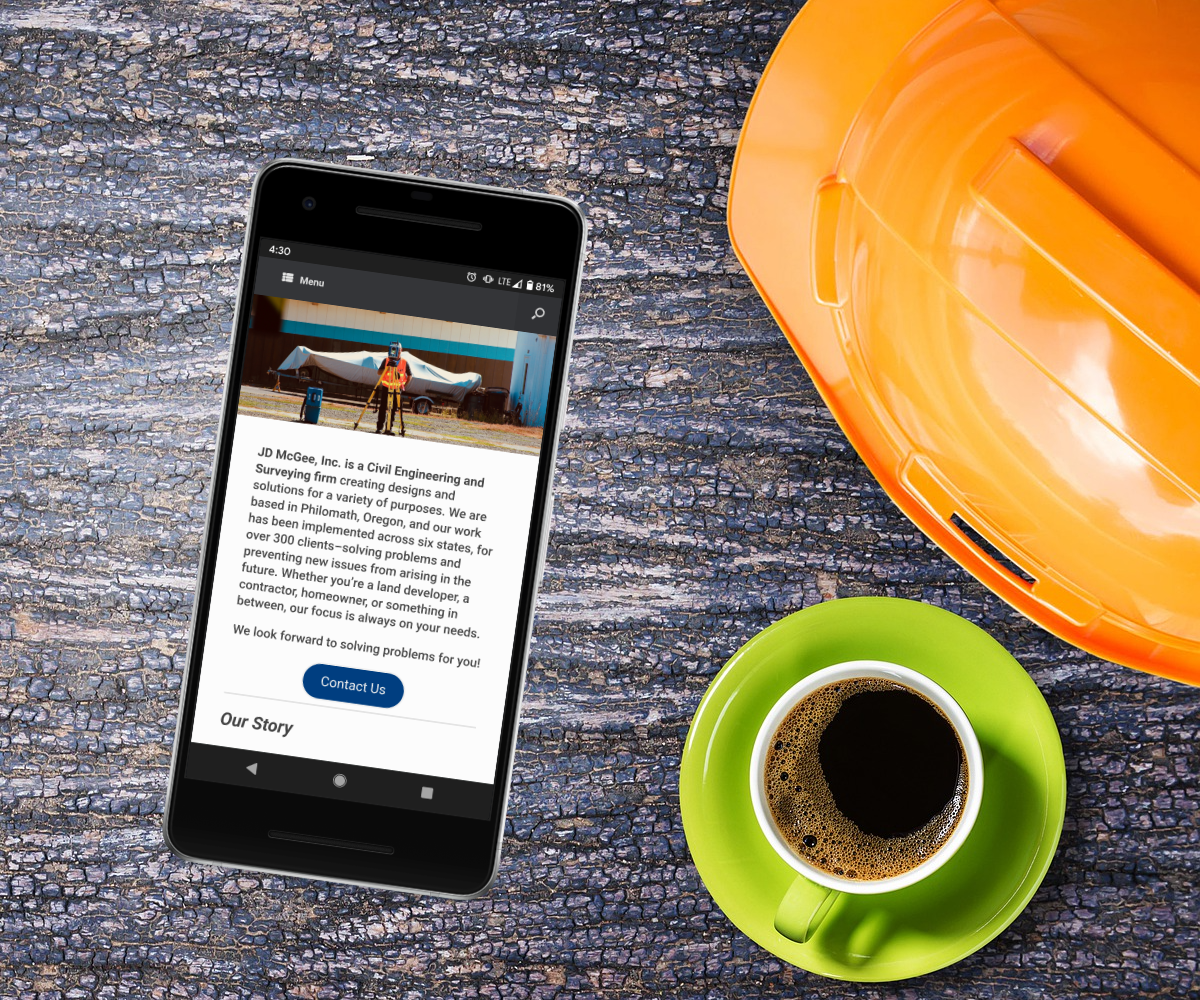
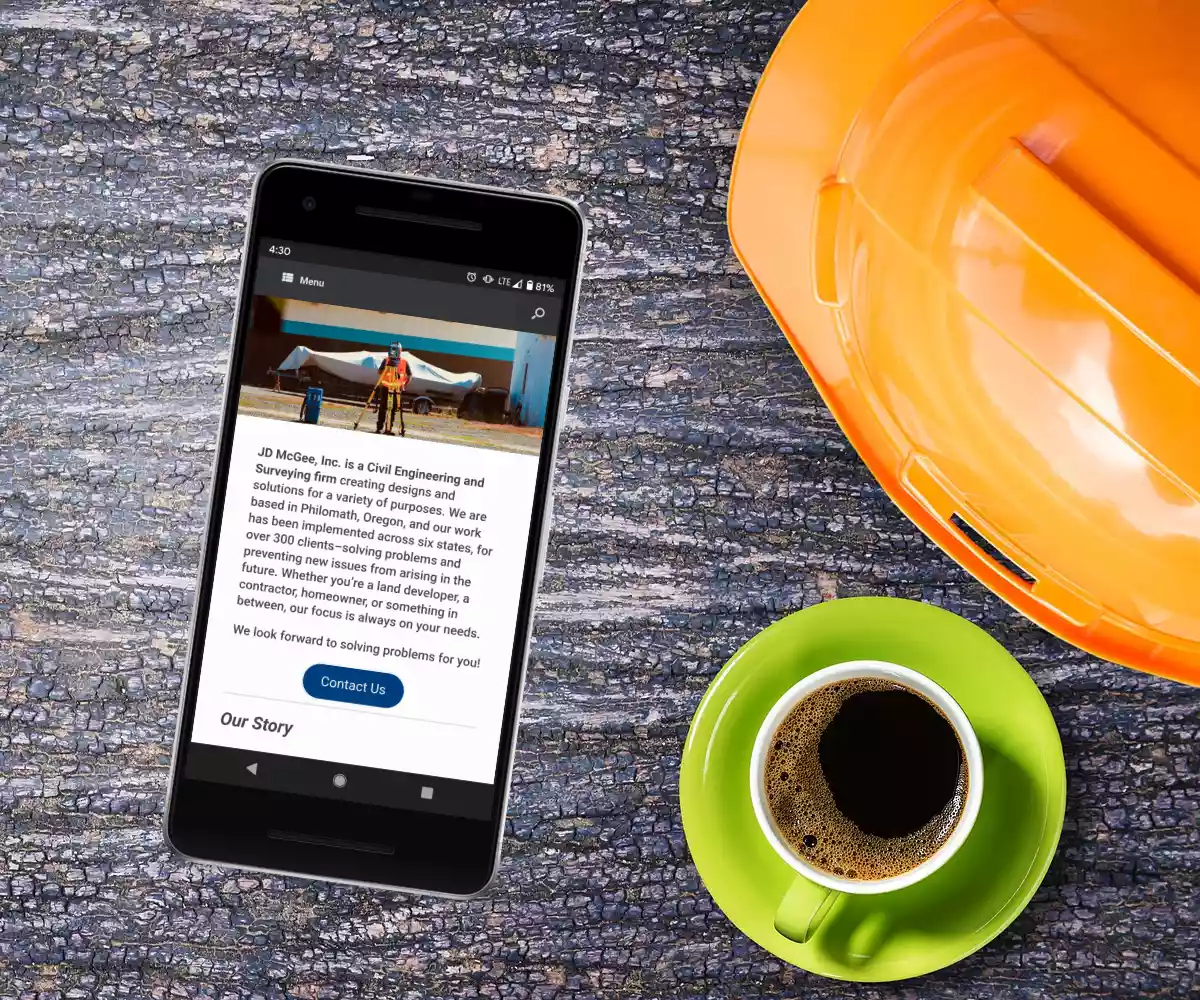
Compress webp files by 90%

diff --git a/public/index.html b/public/index.html
@@ -56,7 +56,7 @@
                 <h1 class="hero-text pad-x-2 dark-text">McGee</h1>
             </div>
             <div class="responsive-wrap shift-up">
-                <h4 class="subtitle-text pad-x-2">Application</h4>
+                <h4 class="subtitle-text pad-x-2">Full Stack</h4>
                 <h4 class="subtitle-text pad-x-2">Developer</h4>
             </div>
         </div>
